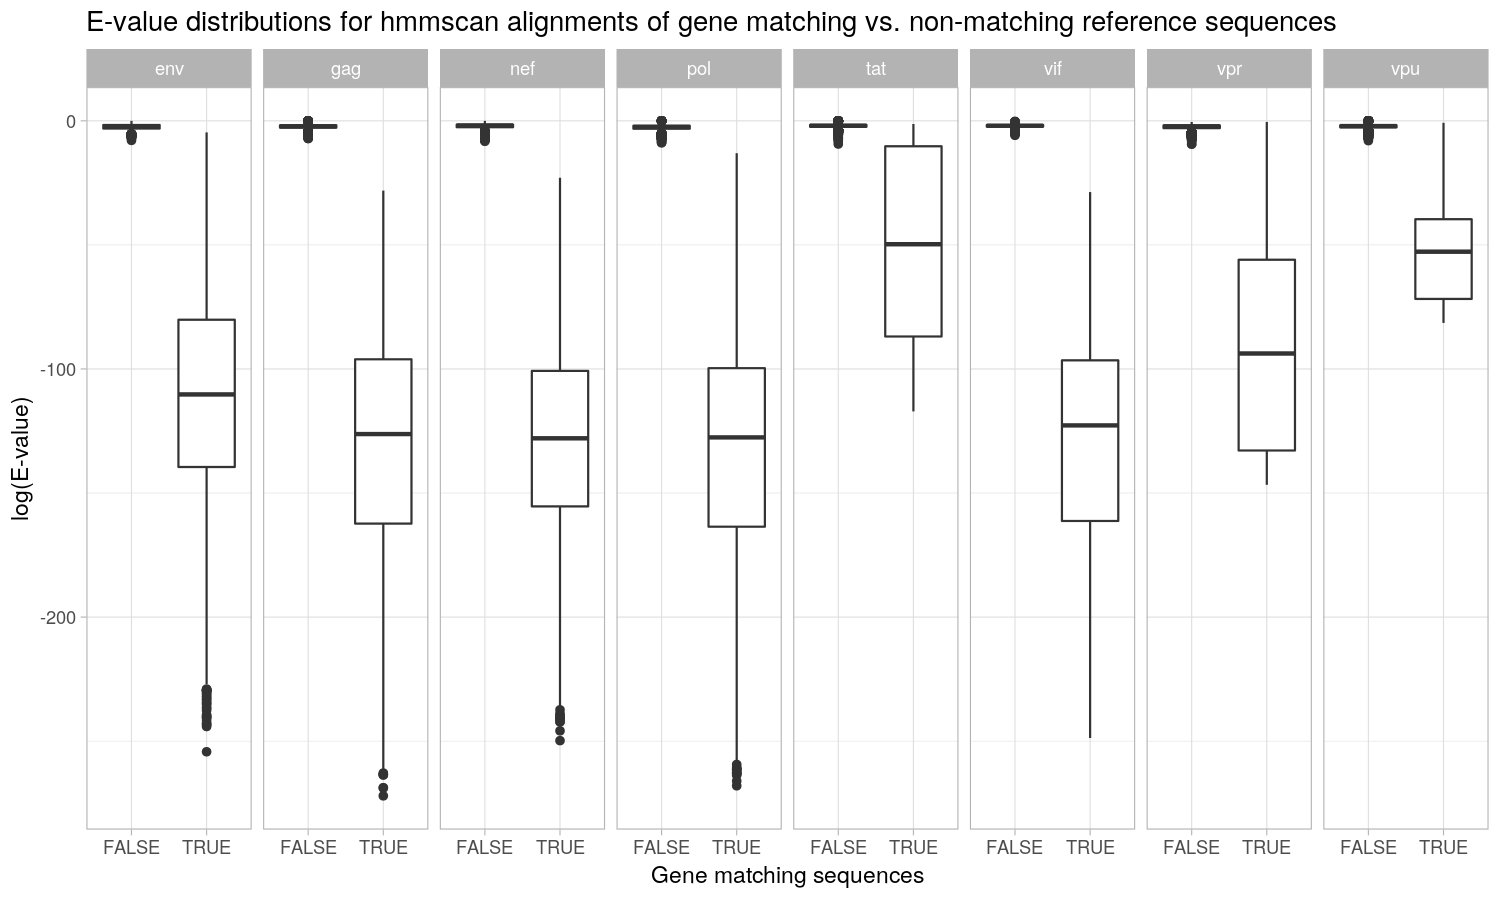
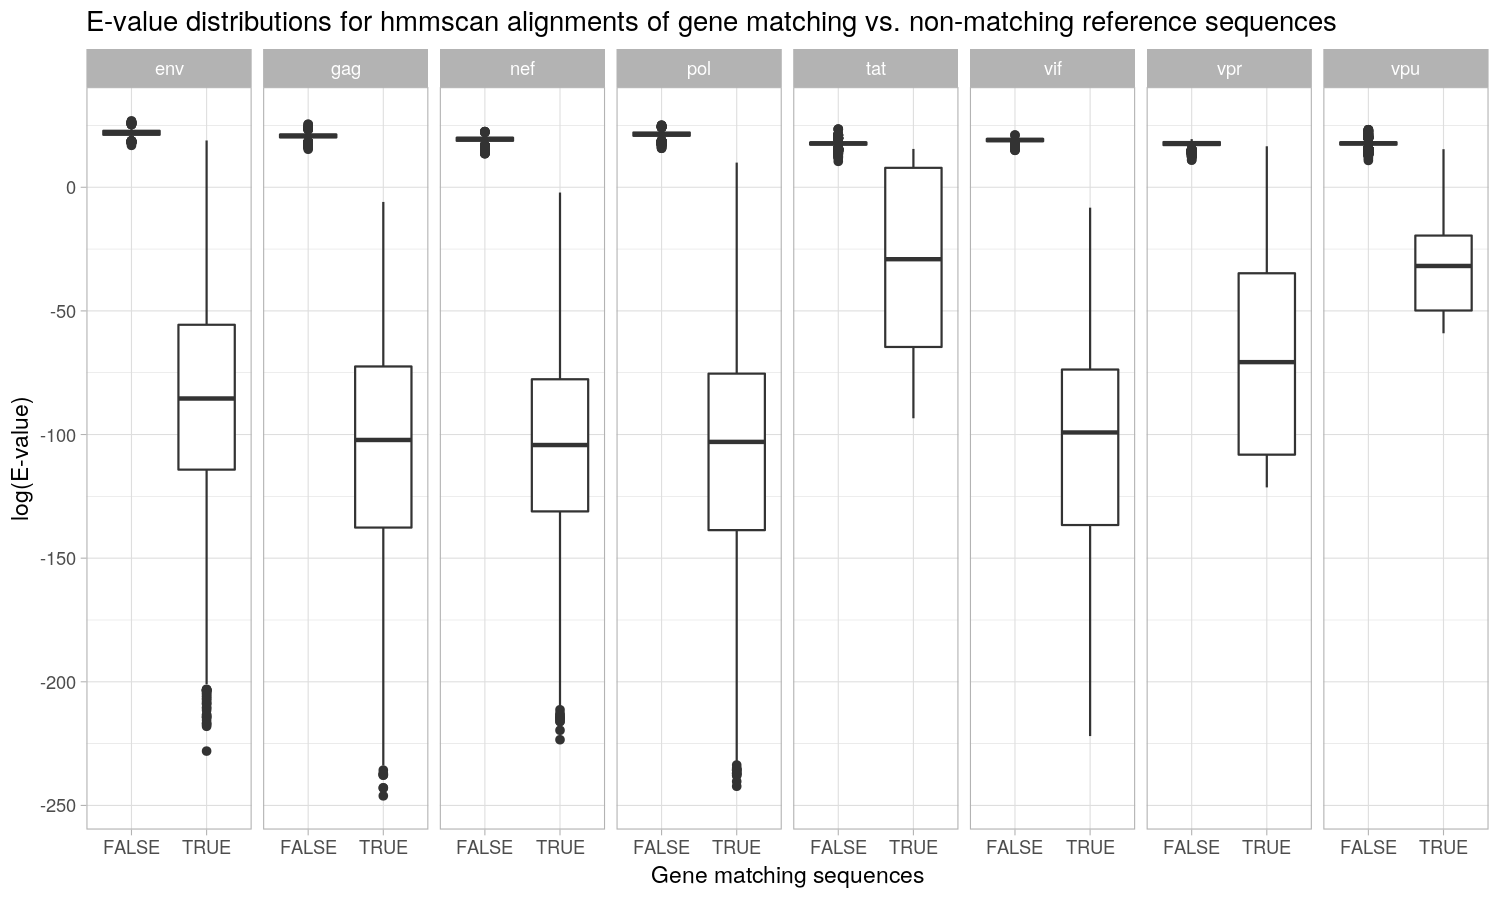
validation: calculate E-value from bit score (to support hmmsearch)

diff --git a/validation/lib/merge-csv.py b/validation/lib/merge-csv.py
@@ -1,11 +1,29 @@
 import csv
 import sys
 
-print("Dataset", "Gene", "Evalue", "Read", sep=",")
+print("Dataset", "Gene", "DBLength", "Evalue", "Score", "Length", "Read", sep=",")
+
+dblength = {
+    "env": 854*5226,
+    "gag": 429*5183,
+    "nef": 207*5188,
+    "pol": 983*2956,
+    "tat": 71*3361,
+    "vif": 171*3937,
+    "vpr": 89*3931,
+    "vpu": 53*4573
+}
 
 for csv_file in sys.argv[1:]:
     dataset = csv_file.split("/")[-2]
     with open(csv_file) as f:
         for row in csv.DictReader(f):
-            print(dataset, row["target_name"], row["evalue"], row["query_name"].partition("-")[0], sep=",")
+            print(dataset,
+                  row["target_name"],
+                  dblength[row["target_name"]],
+                  row["evalue"],
+                  row["score"],
+                  row["query_length"],
+                  row["query_name"].partition("-")[0],
+                  sep=",")
 

diff --git a/hivmmer/filter.py b/hivmmer/filter.py
@@ -15,7 +15,7 @@ def add(filename, min_length, min_quality, keep={}):
     count as the value.
     """
     for seq in SeqIO.parse(filename, "fastq"):
-        if len(seq) > l and sum(seq.letter_annotations["phred_quality"]) / len(seq) > q:
+        if len(seq) > min_length and sum(seq.letter_annotations["phred_quality"]) / len(seq) > min_quality:
             seq = str(seq.seq)
             keep[seq] = keep.get(seq, 0) + 1
 

diff --git a/hivmmer/translate.py b/hivmmer/translate.py
@@ -17,7 +17,7 @@ def translate(filename, allow_stop_codons, out=sys.stdout, log=sys.stderr):
 
     nskipped = {"N": 0, "*": 0}
 
-    for n, record in enumerate(SeqIO.parse(fasta, "fasta")):
+    for n, record in enumerate(SeqIO.parse(filename, "fasta")):
 
         nstop = 0
         seq = str(record.seq)

diff --git a/validation/lib/reference-len.py b/validation/lib/reference-len.py
@@ -1,0 +1,6 @@
+import sys
+from Bio import SeqIO
+n = 0
+for record in SeqIO.parse(sys.argv[1], "fasta"):
+    n += len(str(record.seq).replace("-", ""))
+print(n)
